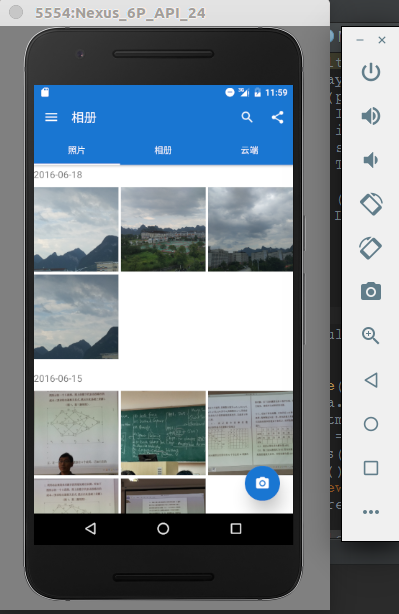
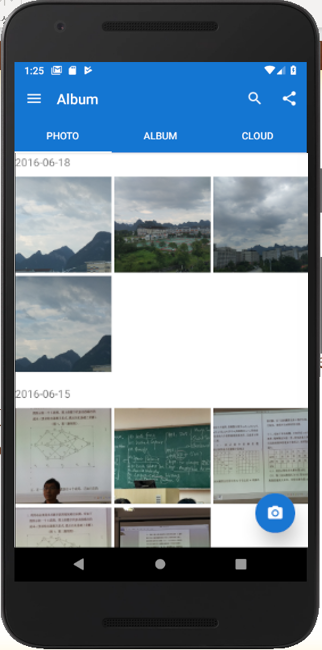
Screen Shot Update - 5 images

diff --git a/app/src/main/java/com/zjianhao/album/MainActivity.java b/app/src/main/java/com/zjianhao/album/MainActivity.java
@@ -211,10 +211,13 @@ public class MainActivity extends AppCompatActivity implements OnNavigationItemS
     public void callPermission(){
         if (Build.VERSION.SDK_INT >= 23) {
             int checkCallStoragePermission = ContextCompat.checkSelfPermission(this, Manifest.permission.WRITE_EXTERNAL_STORAGE);
+            int checkCallCameraPermission = ContextCompat.checkSelfPermission(this, Manifest.permission.CAMERA);
             if(checkCallStoragePermission != PackageManager.PERMISSION_GRANTED){
                 ActivityCompat.requestPermissions(this,new String[]{Manifest.permission.WRITE_EXTERNAL_STORAGE},0x01);
             }
-
+            if(checkCallCameraPermission != PackageManager.PERMISSION_GRANTED){
+                ActivityCompat.requestPermissions(this,new String[]{Manifest.permission.CAMERA},0x01);
+            }
         }
 
     }

diff --git a/README.md b/README.md
@@ -1,6 +1,8 @@
 # Smart Album with Cloud
 
 Original Open Source Project<br/>
-![zhangjianhao](https://github.com/zhangjianhao/Album/blob/master/screenshot/1.png)<br/>
-![zhangjianhao](https://github.com/zhangjianhao/Album/blob/master/screenshot/2.png)<br/>
-![zhangjianhao](https://github.com/zhangjianhao/Album/blob/master/screenshot/3.png)<br/>
+![CSID-DGU](https://github.com/CSID-DGU/2018-2-OSSP-SmartAlbumWithCloud/blob/master/screenshot/1.png)<br/>
+![CSID-DGU](https://github.com/CSID-DGU/2018-2-OSSP-SmartAlbumWithCloud/blob/master/screenshot/2.png)<br/>
+![CSID-DGU](https://github.com/CSID-DGU/2018-2-OSSP-SmartAlbumWithCloud/blob/master/screenshot/3.png)<br/>
+![CSID-DGU](https://github.com/CSID-DGU/2018-2-OSSP-SmartAlbumWithCloud/blob/master/screenshot/4.png)<br/>
+![CSID-DGU](https://github.com/CSID-DGU/2018-2-OSSP-SmartAlbumWithCloud/blob/master/screenshot/5.png)<br/>
